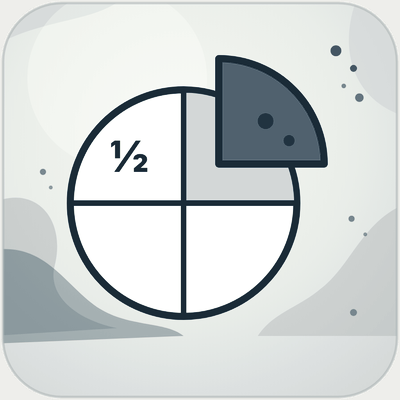
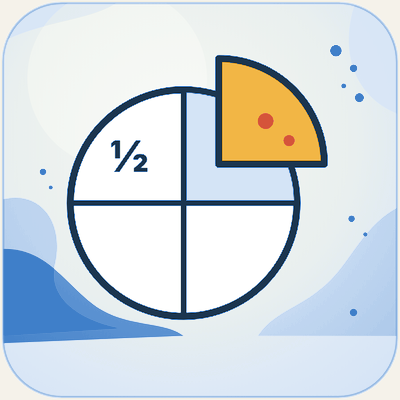
Färgglada ikoner för områdena
Claude-Session: https://claude.ai/code/session_01FW4pkRfwxJFFBgcHcFTAjf

diff --git a/index.html b/index.html
@@ -4,11 +4,11 @@
 <meta name="description" content="Problemlösning med blockmodellen: genomgångar steg för steg och interaktiva övningar.">
 <link rel="preconnect" href="https://fonts.googleapis.com"><link rel="preconnect" href="https://fonts.gstatic.com" crossorigin>
 <link href="https://fonts.googleapis.com/css2?family=Fraunces:opsz,wght@9..144,600;9..144,700&family=Inter:wght@400;500;600;700;800;900&display=swap" rel="stylesheet">
-<link rel="icon" href="bilder/logo.svg?v=202611212251" type="image/svg+xml">
-<link rel="stylesheet" href="stil.css?v=202611212251">
+<link rel="icon" href="bilder/logo.svg?v=202611212258" type="image/svg+xml">
+<link rel="stylesheet" href="stil.css?v=202611212258">
 <style>:root{--ink:#253745;--mid:#9BA8AB;--l:#CCD0CF;--vl:#F7F8F8;--w:#F7F8F8;--hi:#9BA8AB;--bg:#F7F8F8;--ram:#CCD0CF;--knapp:#253745;--t:#F7F8F8;--tram:#D5DADA}</style>
 <style>.logo .bmlogo{flex:none}nav a.on{font-weight:800;text-decoration:underline;text-underline-offset:6px}</style></head><body>
-<header><div class="wrap"><a class="logo" href="index.html" aria-label="Mattekompassen, Örtagårdsskolan Malmö"><img src="bilder/kompass.png?v=202611212251" alt="" style="width:46px;height:46px"><span>Mattekompassen<small>Örtagårdsskolan Malmö</small></span></a>
+<header><div class="wrap"><a class="logo" href="index.html" aria-label="Mattekompassen, Örtagårdsskolan Malmö"><img src="bilder/kompass.png?v=202611212258" alt="" style="width:46px;height:46px"><span>Mattekompassen<small>Örtagårdsskolan Malmö</small></span></a>
 <div class="hoger"><nav aria-label="Huvudmeny"><a href="index.html" class="on">Uppgifter</a><a href="trana.html" class="">Slumpade uppgifter</a></nav></div></div></header>
 
 <style>section.panel.panel{background:linear-gradient(115deg,#E3E7E7,#CCD0CF)!important;box-shadow:inset 0 0 0 2px #9BA8AB!important}section.panel.panel h1{color:#11212D!important}section.panel.panel .etikett{color:#253745!important}section.panel.panel .sti,section.panel.panel .sti a{color:#253745!important}section.panel.panel p{color:#253745!important}.kapblock,.ovkort,.np .infobox,.pi-intro div,.pi-info>div{background:linear-gradient(110deg,#F7F8F8,#E3E7E7)!important;border:2px solid #CCD0CF!important;box-shadow:none}.typ,.bg-ruta,.bt-ruta,.bm-steg li,.bm-valj a,.bm-del,.bm-tips li,.pi-omr button,.pisa .enhet,.np .ib4>div,.upg,.r6k,.r6steg div,.r6kap a:not(.forst),.ruta,.kq-lruta{background:#fff!important;border:1.5px solid #D5DADA!important;border-top:6px solid #11212D!important}.kapblock h2,.kapblock h3:first-child,.r6sek,.r6k h3,.typ b,.bm-steg b{color:#253745}.knapp{background:#253745!important;color:#fff!important}</style><style>.panel{background:#E3E7E7!important;box-shadow:inset 0 0 0 2px #9BA8AB}.panel .sti,.panel .sti a{color:#4A5C6A}.panel h1{color:var(--ink)}.panel p{color:#253745;max-width:none}</style><div class="wrap"><section class="panel" style="background:#E3E7E7"><div><h1>Blockmodellen</h1><p>15 genomgångar i naturliga tal, bråk, förhållande och procent, med PPT, PDF och en interaktiv övning till varje. Längst ner finns slumpade uppgifter att träna på.</p></div></section></div><style>
@@ -61,6 +61,6 @@
 .bm-ov a{display:inline-flex;align-items:center;gap:6px;text-decoration:none;font-weight:700;font-size:15px;border-radius:999px;padding:8px 14px;background:#E9ECEC;border:1.5px solid #9BA8AB;color:#06141B}
 .bm-ov a:hover{background:#B4BEC0}.bm-ov a.slump{background:#11212D;border-color:#11212D;color:#fff}.bm-ov a.slump:hover{background:#253745}
 @media (max-width:900px){.bm-gg{grid-template-columns:1fr 1fr}}@media (max-width:600px){.bm-gg{grid-template-columns:1fr}.bm-omr{padding:14px 14px 16px}.bm-omr-h img{width:48px;height:48px;border-radius:12px}.bm-omr-h h2{font-size:21px}}
-</style><details class="bm-tank"><summary><span>Så tänker du</span><small>8 steg för att lösa en uppgift med blockmodellen</small></summary><ol class="bm-steg"><li><b>Läs hela uppgiften</b>Vem eller vad handlar uppgiften om?</li><li><b>Rita blocket</b>Ett block för det hela, eller för den som har minst. Rita de andra utifrån det.</li><li><b>Läs en gång till</b>Skriv in det du vet: talen och delarna som står i texten.</li><li><b>Vad söker vi?</b>Skriv ett ? där svaret ska stå.</li><li><b>Hur delar vi blocket?</b>Dela i lika stora delar. Är bråket eller procenten svår att visa? Dela i mindre delar.</li><li><b>Är det något som stör?</b>En liten extra del, en rabatt eller något som flyttas. Ta bort det och ändra talet.</li><li><b>Hur mycket är en del?</b>Dela talet du vet med antalet delar. Räkna sedan ut det du söker.</li><li><b>Svara och kontrollera</b>Svara med en hel mening. Är svaret rimligt?</li></ol></details><div id="blandade"><section class="bm-omr" id="tal"><div class="bm-omr-h"><img src="bilder/bm-tal.png?v=202611212251" alt=""><div><h2>Naturliga tal</h2><small>6 genomgångar · tre uppgifter i varje</small></div></div><div class="bm-gg"><div><span>1</span><em>Pärlproblemet</em><b><a href="https://drive.google.com/file/d/17Kt0o9oEqbsKeMjQ-DYdjIm5X_vjfPCh/view" target="_blank" rel="noopener">PPT</a><a class="pdf" href="pdf/blandade-02.pdf" target="_blank" rel="noopener">PDF</a><a class="ova" href="ova.html?l=2">Öva</a></b></div><div><span>2</span><em>Ryggsäcksproblemet</em><b><a href="https://drive.google.com/file/d/1OMk2tmF8yoeLj4kfQwA310-q7Bd5yBHd/view" target="_blank" rel="noopener">PPT</a><a class="pdf" href="pdf/blandade-04.pdf" target="_blank" rel="noopener">PDF</a><a class="ova" href="ova.html?l=4">Öva</a></b></div><div><span>3</span><em>Frimärksproblemet</em><b><a href="https://drive.google.com/file/d/1pQglbcg-EiJWTSiU6Dwevq3f0ULDbgb4/view" target="_blank" rel="noopener">PPT</a><a class="pdf" href="pdf/blandade-06.pdf" target="_blank" rel="noopener">PDF</a><a class="ova" href="ova.html?l=6">Öva</a></b></div><div><span>4</span><em>Åldersproblemet</em><b><a href="https://drive.google.com/file/d/1ZTQHDT-lgQtClPZrrIG-9wtgn8gQ7DVU/view" target="_blank" rel="noopener">PPT</a><a class="pdf" href="pdf/blandade-07.pdf" target="_blank" rel="noopener">PDF</a><a class="ova" href="ova.html?l=7">Öva</a></b></div><div><span>5</span><em>Biljettproblemet</em><b><a href="https://drive.google.com/file/d/17ylnughw92XObPvDfJ11sF3EDz65QB5t/view" target="_blank" rel="noopener">PPT</a><a class="pdf" href="pdf/blandade-08.pdf" target="_blank" rel="noopener">PDF</a><a class="ova" href="ova.html?l=8">Öva</a></b></div><div><span>6</span><em>Fickpengsproblemet</em><b><a href="https://drive.google.com/file/d/1dmgQJSduHHs5-DfGUHQt99nVvsS7_g1F/view" target="_blank" rel="noopener">PPT</a><a class="pdf" href="pdf/blandade-11.pdf" target="_blank" rel="noopener">PDF</a><a class="ova" href="ova.html?l=11">Öva</a></b></div></div><div class="bm-ov"><a class="slump" href="trana.html?omr=nat">Slumpade uppgifter: naturliga tal →</a></div></section><section class="bm-omr" id="brak"><div class="bm-omr-h"><img src="bilder/bm-brak.png?v=202611212251" alt=""><div><h2>Bråk</h2><small>3 genomgångar · tre uppgifter i varje</small></div></div><div class="bm-gg"><div><span>7</span><em>Campingproblemet</em><b><a href="https://drive.google.com/file/d/1QBiYS2irVUmERhYtTl7-DSw3yshJLF4N/view" target="_blank" rel="noopener">PPT</a><a class="pdf" href="pdf/blandade-01.pdf" target="_blank" rel="noopener">PDF</a><a class="ova" href="ova.html?l=1">Öva</a></b></div><div><span>8</span><em>Veckopengsproblemet</em><b><a href="https://drive.google.com/file/d/17ZrXr9yd_D8kfU-dGLnqT9yi520G04ab/view" target="_blank" rel="noopener">PPT</a><a class="pdf" href="pdf/blandade-05.pdf" target="_blank" rel="noopener">PDF</a><a class="ova" href="ova.html?l=5">Öva</a></b></div><div><span>9</span><em>Tankproblemet</em><b><a href="https://drive.google.com/file/d/1-d3l4B1OYmZgkZfy7c7Y4uGqGxeNanFu/view" target="_blank" rel="noopener">PPT</a><a class="pdf" href="pdf/blandade-12.pdf" target="_blank" rel="noopener">PDF</a><a class="ova" href="ova.html?l=12">Öva</a></b></div></div><div class="bm-ov"><a class="slump" href="trana.html?omr=brak">Slumpade uppgifter: bråk →</a></div></section><section class="bm-omr" id="forhallande"><div class="bm-omr-h"><img src="bilder/bm-forh.png?v=202611212251" alt=""><div><h2>Förhållande</h2><small>3 genomgångar · tre uppgifter i varje</small></div></div><div class="bm-gg"><div><span>10</span><em>Klubbproblemet</em><b><a href="https://drive.google.com/file/d/17JiUn-39sepv0XO5E1zyIT4X9HXgS92O/view" target="_blank" rel="noopener">PPT</a><a class="pdf" href="pdf/blandade-09.pdf" target="_blank" rel="noopener">PDF</a><a class="ova" href="ova.html?l=9">Öva</a></b></div><div><span>11</span><em>Saftproblemet</em><b><a href="https://drive.google.com/file/d/1-pATagABDABF_cw-JGKHqhd4kZ6KdXIF/view" target="_blank" rel="noopener">PPT</a><a class="pdf" href="pdf/blandade-13.pdf" target="_blank" rel="noopener">PDF</a><a class="ova" href="ova.html?l=13">Öva</a></b></div><div><span>12</span><em>Kortbytesproblemet</em><b><a href="https://drive.google.com/file/d/1OK4lUZ8Qu8js-u6cPWZ_2feRvTf1V2MI/view" target="_blank" rel="noopener">PPT</a><a class="pdf" href="pdf/blandade-14.pdf" target="_blank" rel="noopener">PDF</a><a class="ova" href="ova.html?l=14">Öva</a></b></div></div><div class="bm-ov"><a class="slump" href="trana.html?omr=forh">Slumpade uppgifter: förhållande →</a></div></section><section class="bm-omr" id="procent"><div class="bm-omr-h"><img src="bilder/bm-procent.png?v=202611212251" alt=""><div><h2>Procent</h2><small>3 genomgångar · tre uppgifter i varje</small></div></div><div class="bm-gg"><div><span>13</span><em>Rabatt i procent</em><b><a href="https://drive.google.com/file/d/17fC4mrEaEfd_HCdVPecIEBXufxIfdrN9/view" target="_blank" rel="noopener">PPT</a><a class="pdf" href="pdf/blandade-03.pdf" target="_blank" rel="noopener">PDF</a><a class="ova" href="ova.html?l=3">Öva</a></b></div><div><span>14</span><em>Prishöjningsproblemet</em><b><a href="https://drive.google.com/file/d/1zhxnCQ7BIQ_AB1IeHZQOvBYWyJb_HOE8/view" target="_blank" rel="noopener">PPT</a><a class="pdf" href="pdf/blandade-10.pdf" target="_blank" rel="noopener">PDF</a><a class="ova" href="ova.html?l=10">Öva</a></b></div><div><span>15</span><em>Andelsproblemet</em><b><a href="https://drive.google.com/file/d/1jKR5WJxMUtUbhwYYQ98gQioMq3ddlYSh/view" target="_blank" rel="noopener">PPT</a><a class="pdf" href="pdf/blandade-15.pdf" target="_blank" rel="noopener">PDF</a><a class="ova" href="ova.html?l=15">Öva</a></b></div></div><div class="bm-ov"><a class="slump" href="trana.html?omr=proc">Slumpade uppgifter: procent →</a></div></section></div><a class="bm-slump" href="trana.html"><span class="bm-slump-t"><b>Slumpade uppgifter</b><small>Blandat från alla områden, med nya tal och namn varje gång. Lös dem steg för steg.</small></span><em>Starta →</em></a></div></section></main><style>.m6h i.eik{width:60px!important;height:60px!important}.bm-valj i.eik{width:58px!important;height:58px!important}.bm-del>i.eik{width:64px!important;height:64px!important}</style>
+</style><details class="bm-tank"><summary><span>Så tänker du</span><small>8 steg för att lösa en uppgift med blockmodellen</small></summary><ol class="bm-steg"><li><b>Läs hela uppgiften</b>Vem eller vad handlar uppgiften om?</li><li><b>Rita blocket</b>Ett block för det hela, eller för den som har minst. Rita de andra utifrån det.</li><li><b>Läs en gång till</b>Skriv in det du vet: talen och delarna som står i texten.</li><li><b>Vad söker vi?</b>Skriv ett ? där svaret ska stå.</li><li><b>Hur delar vi blocket?</b>Dela i lika stora delar. Är bråket eller procenten svår att visa? Dela i mindre delar.</li><li><b>Är det något som stör?</b>En liten extra del, en rabatt eller något som flyttas. Ta bort det och ändra talet.</li><li><b>Hur mycket är en del?</b>Dela talet du vet med antalet delar. Räkna sedan ut det du söker.</li><li><b>Svara och kontrollera</b>Svara med en hel mening. Är svaret rimligt?</li></ol></details><div id="blandade"><section class="bm-omr" id="tal"><div class="bm-omr-h"><img src="bilder/bm-tal.png?v=202611212258" alt=""><div><h2>Naturliga tal</h2><small>6 genomgångar · tre uppgifter i varje</small></div></div><div class="bm-gg"><div><span>1</span><em>Pärlproblemet</em><b><a href="https://drive.google.com/file/d/17Kt0o9oEqbsKeMjQ-DYdjIm5X_vjfPCh/view" target="_blank" rel="noopener">PPT</a><a class="pdf" href="pdf/blandade-02.pdf" target="_blank" rel="noopener">PDF</a><a class="ova" href="ova.html?l=2">Öva</a></b></div><div><span>2</span><em>Ryggsäcksproblemet</em><b><a href="https://drive.google.com/file/d/1OMk2tmF8yoeLj4kfQwA310-q7Bd5yBHd/view" target="_blank" rel="noopener">PPT</a><a class="pdf" href="pdf/blandade-04.pdf" target="_blank" rel="noopener">PDF</a><a class="ova" href="ova.html?l=4">Öva</a></b></div><div><span>3</span><em>Frimärksproblemet</em><b><a href="https://drive.google.com/file/d/1pQglbcg-EiJWTSiU6Dwevq3f0ULDbgb4/view" target="_blank" rel="noopener">PPT</a><a class="pdf" href="pdf/blandade-06.pdf" target="_blank" rel="noopener">PDF</a><a class="ova" href="ova.html?l=6">Öva</a></b></div><div><span>4</span><em>Åldersproblemet</em><b><a href="https://drive.google.com/file/d/1ZTQHDT-lgQtClPZrrIG-9wtgn8gQ7DVU/view" target="_blank" rel="noopener">PPT</a><a class="pdf" href="pdf/blandade-07.pdf" target="_blank" rel="noopener">PDF</a><a class="ova" href="ova.html?l=7">Öva</a></b></div><div><span>5</span><em>Biljettproblemet</em><b><a href="https://drive.google.com/file/d/17ylnughw92XObPvDfJ11sF3EDz65QB5t/view" target="_blank" rel="noopener">PPT</a><a class="pdf" href="pdf/blandade-08.pdf" target="_blank" rel="noopener">PDF</a><a class="ova" href="ova.html?l=8">Öva</a></b></div><div><span>6</span><em>Fickpengsproblemet</em><b><a href="https://drive.google.com/file/d/1dmgQJSduHHs5-DfGUHQt99nVvsS7_g1F/view" target="_blank" rel="noopener">PPT</a><a class="pdf" href="pdf/blandade-11.pdf" target="_blank" rel="noopener">PDF</a><a class="ova" href="ova.html?l=11">Öva</a></b></div></div><div class="bm-ov"><a class="slump" href="trana.html?omr=nat">Slumpade uppgifter: naturliga tal →</a></div></section><section class="bm-omr" id="brak"><div class="bm-omr-h"><img src="bilder/bm-brak.png?v=202611212258" alt=""><div><h2>Bråk</h2><small>3 genomgångar · tre uppgifter i varje</small></div></div><div class="bm-gg"><div><span>7</span><em>Campingproblemet</em><b><a href="https://drive.google.com/file/d/1QBiYS2irVUmERhYtTl7-DSw3yshJLF4N/view" target="_blank" rel="noopener">PPT</a><a class="pdf" href="pdf/blandade-01.pdf" target="_blank" rel="noopener">PDF</a><a class="ova" href="ova.html?l=1">Öva</a></b></div><div><span>8</span><em>Veckopengsproblemet</em><b><a href="https://drive.google.com/file/d/17ZrXr9yd_D8kfU-dGLnqT9yi520G04ab/view" target="_blank" rel="noopener">PPT</a><a class="pdf" href="pdf/blandade-05.pdf" target="_blank" rel="noopener">PDF</a><a class="ova" href="ova.html?l=5">Öva</a></b></div><div><span>9</span><em>Tankproblemet</em><b><a href="https://drive.google.com/file/d/1-d3l4B1OYmZgkZfy7c7Y4uGqGxeNanFu/view" target="_blank" rel="noopener">PPT</a><a class="pdf" href="pdf/blandade-12.pdf" target="_blank" rel="noopener">PDF</a><a class="ova" href="ova.html?l=12">Öva</a></b></div></div><div class="bm-ov"><a class="slump" href="trana.html?omr=brak">Slumpade uppgifter: bråk →</a></div></section><section class="bm-omr" id="forhallande"><div class="bm-omr-h"><img src="bilder/bm-forh.png?v=202611212258" alt=""><div><h2>Förhållande</h2><small>3 genomgångar · tre uppgifter i varje</small></div></div><div class="bm-gg"><div><span>10</span><em>Klubbproblemet</em><b><a href="https://drive.google.com/file/d/17JiUn-39sepv0XO5E1zyIT4X9HXgS92O/view" target="_blank" rel="noopener">PPT</a><a class="pdf" href="pdf/blandade-09.pdf" target="_blank" rel="noopener">PDF</a><a class="ova" href="ova.html?l=9">Öva</a></b></div><div><span>11</span><em>Saftproblemet</em><b><a href="https://drive.google.com/file/d/1-pATagABDABF_cw-JGKHqhd4kZ6KdXIF/view" target="_blank" rel="noopener">PPT</a><a class="pdf" href="pdf/blandade-13.pdf" target="_blank" rel="noopener">PDF</a><a class="ova" href="ova.html?l=13">Öva</a></b></div><div><span>12</span><em>Kortbytesproblemet</em><b><a href="https://drive.google.com/file/d/1OK4lUZ8Qu8js-u6cPWZ_2feRvTf1V2MI/view" target="_blank" rel="noopener">PPT</a><a class="pdf" href="pdf/blandade-14.pdf" target="_blank" rel="noopener">PDF</a><a class="ova" href="ova.html?l=14">Öva</a></b></div></div><div class="bm-ov"><a class="slump" href="trana.html?omr=forh">Slumpade uppgifter: förhållande →</a></div></section><section class="bm-omr" id="procent"><div class="bm-omr-h"><img src="bilder/bm-procent.png?v=202611212258" alt=""><div><h2>Procent</h2><small>3 genomgångar · tre uppgifter i varje</small></div></div><div class="bm-gg"><div><span>13</span><em>Rabatt i procent</em><b><a href="https://drive.google.com/file/d/17fC4mrEaEfd_HCdVPecIEBXufxIfdrN9/view" target="_blank" rel="noopener">PPT</a><a class="pdf" href="pdf/blandade-03.pdf" target="_blank" rel="noopener">PDF</a><a class="ova" href="ova.html?l=3">Öva</a></b></div><div><span>14</span><em>Prishöjningsproblemet</em><b><a href="https://drive.google.com/file/d/1zhxnCQ7BIQ_AB1IeHZQOvBYWyJb_HOE8/view" target="_blank" rel="noopener">PPT</a><a class="pdf" href="pdf/blandade-10.pdf" target="_blank" rel="noopener">PDF</a><a class="ova" href="ova.html?l=10">Öva</a></b></div><div><span>15</span><em>Andelsproblemet</em><b><a href="https://drive.google.com/file/d/1jKR5WJxMUtUbhwYYQ98gQioMq3ddlYSh/view" target="_blank" rel="noopener">PPT</a><a class="pdf" href="pdf/blandade-15.pdf" target="_blank" rel="noopener">PDF</a><a class="ova" href="ova.html?l=15">Öva</a></b></div></div><div class="bm-ov"><a class="slump" href="trana.html?omr=proc">Slumpade uppgifter: procent →</a></div></section></div><a class="bm-slump" href="trana.html"><span class="bm-slump-t"><b>Slumpade uppgifter</b><small>Blandat från alla områden, med nya tal och namn varje gång. Lös dem steg för steg.</small></span><em>Starta →</em></a></div></section></main><style>.m6h i.eik{width:60px!important;height:60px!important}.bm-valj i.eik{width:58px!important;height:58px!important}.bm-del>i.eik{width:64px!important;height:64px!important}</style>
 <footer><div class="wrap"><b>Blockmodellen – en del av Mattekompassen</b><span><a href="https://mattekompassen.se" style="color:inherit;font-weight:700">Till Mattekompassen: mattekompassen.se →</a></span></div></footer>
 </body></html>

diff --git a/ova.html b/ova.html
@@ -4,11 +4,11 @@
 <meta name="description" content="Interaktiv övning till genomgångarna med blockmodellen.">
 <link rel="preconnect" href="https://fonts.googleapis.com"><link rel="preconnect" href="https://fonts.gstatic.com" crossorigin>
 <link href="https://fonts.googleapis.com/css2?family=Fraunces:opsz,wght@9..144,600;9..144,700&family=Inter:wght@400;500;600;700;800;900&display=swap" rel="stylesheet">
-<link rel="icon" href="bilder/logo.svg?v=202611212251" type="image/svg+xml">
-<link rel="stylesheet" href="stil.css?v=202611212251">
+<link rel="icon" href="bilder/logo.svg?v=202611212258" type="image/svg+xml">
+<link rel="stylesheet" href="stil.css?v=202611212258">
 <style>:root{--ink:#253745;--mid:#9BA8AB;--l:#CCD0CF;--vl:#F7F8F8;--w:#F7F8F8;--hi:#9BA8AB;--bg:#F7F8F8;--ram:#CCD0CF;--knapp:#253745;--t:#F7F8F8;--tram:#D5DADA}</style>
 <style>.logo .bmlogo{flex:none}nav a.on{font-weight:800;text-decoration:underline;text-underline-offset:6px}</style></head><body>
-<header><div class="wrap"><a class="logo" href="index.html" aria-label="Mattekompassen, Örtagårdsskolan Malmö"><img src="bilder/kompass.png?v=202611212251" alt="" style="width:46px;height:46px"><span>Mattekompassen<small>Örtagårdsskolan Malmö</small></span></a>
+<header><div class="wrap"><a class="logo" href="index.html" aria-label="Mattekompassen, Örtagårdsskolan Malmö"><img src="bilder/kompass.png?v=202611212258" alt="" style="width:46px;height:46px"><span>Mattekompassen<small>Örtagårdsskolan Malmö</small></span></a>
 <div class="hoger"><nav aria-label="Huvudmeny"><a href="index.html" class="">Uppgifter</a><a href="trana.html" class="">Slumpade uppgifter</a></nav></div></div></header>
 
 <style>section.panel.panel{background:linear-gradient(115deg,#E3E7E7,#CCD0CF)!important;box-shadow:inset 0 0 0 2px #9BA8AB!important}section.panel.panel h1{color:#11212D!important}section.panel.panel .etikett{color:#253745!important}section.panel.panel .sti,section.panel.panel .sti a{color:#253745!important}section.panel.panel p{color:#253745!important}.kapblock,.ovkort,.np .infobox,.pi-intro div,.pi-info>div{background:linear-gradient(110deg,#F7F8F8,#E3E7E7)!important;border:2px solid #CCD0CF!important;box-shadow:none}.typ,.bg-ruta,.bt-ruta,.bm-steg li,.bm-valj a,.bm-del,.bm-tips li,.pi-omr button,.pisa .enhet,.np .ib4>div,.upg,.r6k,.r6steg div,.r6kap a:not(.forst),.ruta,.kq-lruta{background:#fff!important;border:1.5px solid #D5DADA!important;border-top:6px solid #11212D!important}.kapblock h2,.kapblock h3:first-child,.r6sek,.r6k h3,.typ b,.bm-steg b{color:#253745}.knapp{background:#253745!important;color:#fff!important}</style><style>.panel{background:#E3E7E7!important;box-shadow:inset 0 0 0 2px #9BA8AB}.panel .sti,.panel .sti a{color:#4A5C6A}.panel h1{color:var(--ink)}.panel p{color:#253745;max-width:none}</style><div class="wrap"><section class="panel" style="background:#E3E7E7"><div><h1><a href="index.html" style="color:inherit;text-decoration:none">Blockmodellen</a></h1><p><span class="bm-under">Öva: blandade uppgifter</span>Samma tre uppgifter som i genomgången, men med nya tal. Lös dem steg för steg med blocken.</p></div></section></div><style>
@@ -55,6 +55,6 @@
 .bmo-prog span.nu{background:#11212D;color:#fff;border-color:#11212D}.bmo-prog span.klar{background:#D9DEDE;border-color:#2E6B5E;color:#24564B}
 .bmo-allt{margin:14px 0 0;font-size:16px;font-weight:700;color:#24564B}
 </style><style>.panel p .bm-under{display:block;font-family:Inter,sans-serif;font-weight:800;font-size:22px;color:#3D4F5C;margin:0 0 6px}</style>
-<main><section><div class="wrap"><div id="bmova"></div><div style="max-width:900px;margin:22px auto 0"><a class="knapp" href="index.html#blandade">← Alla genomgångar</a></div></div></section></main><script src="js/blandade-ova.js?v=202611212251"></script><script src="js/blockmodell-ova.js?v=202611212251"></script><script>(function(){var L={"2": ["Pärlproblemet", "Naturliga tal", "tal"], "4": ["Ryggsäcksproblemet", "Naturliga tal", "tal"], "6": ["Frimärksproblemet", "Naturliga tal", "tal"], "7": ["Åldersproblemet", "Naturliga tal", "tal"], "8": ["Biljettproblemet", "Naturliga tal", "tal"], "11": ["Fickpengsproblemet", "Naturliga tal", "tal"], "1": ["Campingproblemet", "Bråk", "brak"], "5": ["Veckopengsproblemet", "Bråk", "brak"], "12": ["Tankproblemet", "Bråk", "brak"], "9": ["Klubbproblemet", "Förhållande", "forhallande"], "13": ["Saftproblemet", "Förhållande", "forhallande"], "14": ["Kortbytesproblemet", "Förhållande", "forhallande"], "3": ["Rabatt i procent", "Procent", "procent"], "10": ["Prishöjningsproblemet", "Procent", "procent"], "15": ["Andelsproblemet", "Procent", "procent"]},l=new URLSearchParams(location.search).get("l")||"1",x=L[l];if(!x)return;var u=document.querySelector(".bm-under");if(u)u.textContent="Öva: "+x[1].toLowerCase();document.title="Öva: "+x[0]+" – Blockmodellen";var k=document.querySelector("main a.knapp");if(k){k.href="index.html#"+x[2];k.textContent="← "+x[1]}})()</script><style>.m6h i.eik{width:60px!important;height:60px!important}.bm-valj i.eik{width:58px!important;height:58px!important}.bm-del>i.eik{width:64px!important;height:64px!important}</style>
+<main><section><div class="wrap"><div id="bmova"></div><div style="max-width:900px;margin:22px auto 0"><a class="knapp" href="index.html#blandade">← Alla genomgångar</a></div></div></section></main><script src="js/blandade-ova.js?v=202611212258"></script><script src="js/blockmodell-ova.js?v=202611212258"></script><script>(function(){var L={"2": ["Pärlproblemet", "Naturliga tal", "tal"], "4": ["Ryggsäcksproblemet", "Naturliga tal", "tal"], "6": ["Frimärksproblemet", "Naturliga tal", "tal"], "7": ["Åldersproblemet", "Naturliga tal", "tal"], "8": ["Biljettproblemet", "Naturliga tal", "tal"], "11": ["Fickpengsproblemet", "Naturliga tal", "tal"], "1": ["Campingproblemet", "Bråk", "brak"], "5": ["Veckopengsproblemet", "Bråk", "brak"], "12": ["Tankproblemet", "Bråk", "brak"], "9": ["Klubbproblemet", "Förhållande", "forhallande"], "13": ["Saftproblemet", "Förhållande", "forhallande"], "14": ["Kortbytesproblemet", "Förhållande", "forhallande"], "3": ["Rabatt i procent", "Procent", "procent"], "10": ["Prishöjningsproblemet", "Procent", "procent"], "15": ["Andelsproblemet", "Procent", "procent"]},l=new URLSearchParams(location.search).get("l")||"1",x=L[l];if(!x)return;var u=document.querySelector(".bm-under");if(u)u.textContent="Öva: "+x[1].toLowerCase();document.title="Öva: "+x[0]+" – Blockmodellen";var k=document.querySelector("main a.knapp");if(k){k.href="index.html#"+x[2];k.textContent="← "+x[1]}})()</script><style>.m6h i.eik{width:60px!important;height:60px!important}.bm-valj i.eik{width:58px!important;height:58px!important}.bm-del>i.eik{width:64px!important;height:64px!important}</style>
 <footer><div class="wrap"><b>Blockmodellen – en del av Mattekompassen</b><span><a href="https://mattekompassen.se" style="color:inherit;font-weight:700">Till Mattekompassen: mattekompassen.se →</a></span></div></footer>
 </body></html>

diff --git a/trana.html b/trana.html
@@ -4,11 +4,11 @@
 <meta name="description" content="Interaktiva övningar med blockmodellen, nya tal varje gång.">
 <link rel="preconnect" href="https://fonts.googleapis.com"><link rel="preconnect" href="https://fonts.gstatic.com" crossorigin>
 <link href="https://fonts.googleapis.com/css2?family=Fraunces:opsz,wght@9..144,600;9..144,700&family=Inter:wght@400;500;600;700;800;900&display=swap" rel="stylesheet">
-<link rel="icon" href="bilder/logo.svg?v=202611212251" type="image/svg+xml">
-<link rel="stylesheet" href="stil.css?v=202611212251">
+<link rel="icon" href="bilder/logo.svg?v=202611212258" type="image/svg+xml">
+<link rel="stylesheet" href="stil.css?v=202611212258">
 <style>:root{--ink:#253745;--mid:#9BA8AB;--l:#CCD0CF;--vl:#F7F8F8;--w:#F7F8F8;--hi:#9BA8AB;--bg:#F7F8F8;--ram:#CCD0CF;--knapp:#253745;--t:#F7F8F8;--tram:#D5DADA}</style>
 <style>.logo .bmlogo{flex:none}nav a.on{font-weight:800;text-decoration:underline;text-underline-offset:6px}</style></head><body>
-<header><div class="wrap"><a class="logo" href="index.html" aria-label="Mattekompassen, Örtagårdsskolan Malmö"><img src="bilder/kompass.png?v=202611212251" alt="" style="width:46px;height:46px"><span>Mattekompassen<small>Örtagårdsskolan Malmö</small></span></a>
+<header><div class="wrap"><a class="logo" href="index.html" aria-label="Mattekompassen, Örtagårdsskolan Malmö"><img src="bilder/kompass.png?v=202611212258" alt="" style="width:46px;height:46px"><span>Mattekompassen<small>Örtagårdsskolan Malmö</small></span></a>
 <div class="hoger"><nav aria-label="Huvudmeny"><a href="index.html" class="">Uppgifter</a><a href="trana.html" class="on">Slumpade uppgifter</a></nav></div></div></header>
 
 <style>section.panel.panel{background:linear-gradient(115deg,#E3E7E7,#CCD0CF)!important;box-shadow:inset 0 0 0 2px #9BA8AB!important}section.panel.panel h1{color:#11212D!important}section.panel.panel .etikett{color:#253745!important}section.panel.panel .sti,section.panel.panel .sti a{color:#253745!important}section.panel.panel p{color:#253745!important}.kapblock,.ovkort,.np .infobox,.pi-intro div,.pi-info>div{background:linear-gradient(110deg,#F7F8F8,#E3E7E7)!important;border:2px solid #CCD0CF!important;box-shadow:none}.typ,.bg-ruta,.bt-ruta,.bm-steg li,.bm-valj a,.bm-del,.bm-tips li,.pi-omr button,.pisa .enhet,.np .ib4>div,.upg,.r6k,.r6steg div,.r6kap a:not(.forst),.ruta,.kq-lruta{background:#fff!important;border:1.5px solid #D5DADA!important;border-top:6px solid #11212D!important}.kapblock h2,.kapblock h3:first-child,.r6sek,.r6k h3,.typ b,.bm-steg b{color:#253745}.knapp{background:#253745!important;color:#fff!important}</style><style>.panel{background:#E3E7E7!important;box-shadow:inset 0 0 0 2px #9BA8AB}.panel .sti,.panel .sti a{color:#4A5C6A}.panel h1{color:var(--ink)}.panel p{color:#253745;max-width:none}</style><div class="wrap"><section class="panel" style="background:#E3E7E7"><div><h1><a href="index.html" style="color:inherit;text-decoration:none">Blockmodellen</a></h1><p><span class="bm-under">Slumpade uppgifter</span>Välj ett område eller blandat. Du får en ny uppgift med nya tal varje gång och löser den steg för steg med blocken.</p></div></section></div><style>
@@ -55,6 +55,6 @@
 .bmo-prog span.nu{background:#11212D;color:#fff;border-color:#11212D}.bmo-prog span.klar{background:#D9DEDE;border-color:#2E6B5E;color:#24564B}
 .bmo-allt{margin:14px 0 0;font-size:16px;font-weight:700;color:#24564B}
 </style><style>.panel p .bm-under{display:block;font-family:Inter,sans-serif;font-weight:800;font-size:22px;color:#3D4F5C;margin:0 0 6px}</style>
-<main><section><div class="wrap"><div id="bmova"></div><div style="max-width:900px;margin:22px auto 0"><a class="knapp" href="index.html">← Till startsidan</a></div></div></section></main><script src="js/blockmodell-ova.js?v=202611212251"></script><script>(function(){var O={"nat": "naturliga tal", "brak": "bråk", "forh": "förhållande", "proc": "procent"},o=new URLSearchParams(location.search).get("omr");if(!O[o])return;var u=document.querySelector(".bm-under");if(u)u.textContent="Slumpade uppgifter: "+O[o]})()</script><style>.m6h i.eik{width:60px!important;height:60px!important}.bm-valj i.eik{width:58px!important;height:58px!important}.bm-del>i.eik{width:64px!important;height:64px!important}</style>
+<main><section><div class="wrap"><div id="bmova"></div><div style="max-width:900px;margin:22px auto 0"><a class="knapp" href="index.html">← Till startsidan</a></div></div></section></main><script src="js/blockmodell-ova.js?v=202611212258"></script><script>(function(){var O={"nat": "naturliga tal", "brak": "bråk", "forh": "förhållande", "proc": "procent"},o=new URLSearchParams(location.search).get("omr");if(!O[o])return;var u=document.querySelector(".bm-under");if(u)u.textContent="Slumpade uppgifter: "+O[o]})()</script><style>.m6h i.eik{width:60px!important;height:60px!important}.bm-valj i.eik{width:58px!important;height:58px!important}.bm-del>i.eik{width:64px!important;height:64px!important}</style>
 <footer><div class="wrap"><b>Blockmodellen – en del av Mattekompassen</b><span><a href="https://mattekompassen.se" style="color:inherit;font-weight:700">Till Mattekompassen: mattekompassen.se →</a></span></div></footer>
 </body></html>
